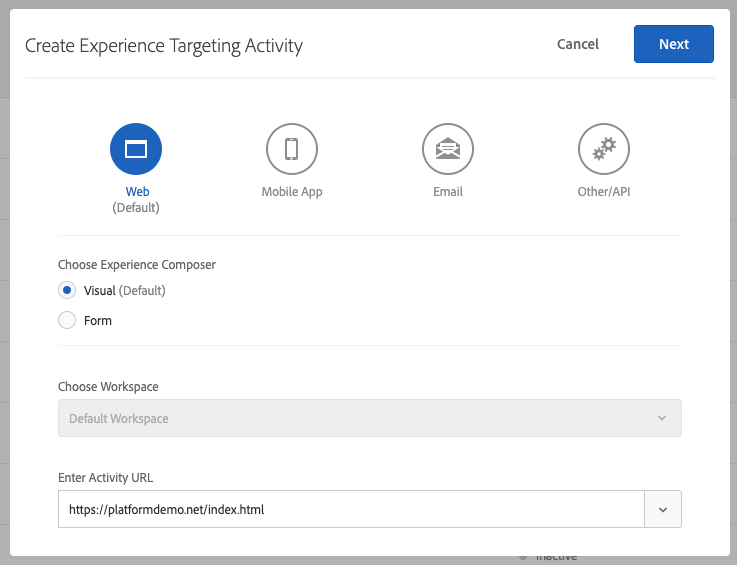
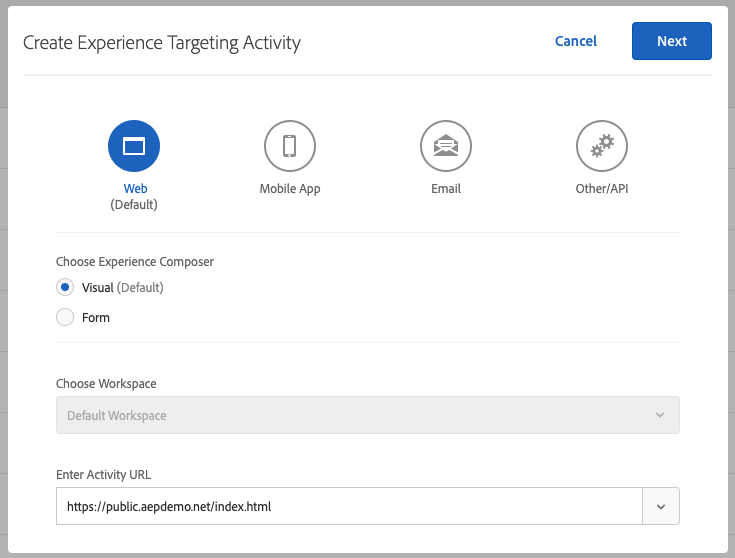
update to module 11

diff --git a/help/tutorial-comprehensive-technical-v21/modules/module11/ex6.md b/help/tutorial-comprehensive-technical-v21/modules/module11/ex6.md
@@ -29,8 +29,7 @@ Now that all Adobe Experience Platform segments are available in the Adobe Exper
 
 >[!IMPORTANT]
 >
->Before you configure your Adobe Target activity, you need to ensure that the Adobe Target library is being loaded on the website. To do that, go to [http://launch.adobe.com/](http://launch.adobe.com/) and make sure the Adobe Target extension is installed in your web property, and make sure that the  
-
+>Before you configure your Adobe Target activity, you need to ensure that the Adobe Target library is being loaded on the website. To do that, go to [http://launch.adobe.com/](http://launch.adobe.com/) and verify that your Edge Configuration is loading Adobe Target.
 
 Let's go back to the Adobe Experience Cloud homepage by going to [http://experiencecloud.adobe.com/](http://experiencecloud.adobe.com/).
 
@@ -60,7 +59,7 @@ Fill out the details, like the **Activity URL**.
 
 >[!TIP]
 >
->Adobe Target doesn't like localhost connections, so for this use-case, please use a publicly available website as Activity URL.
+>Adobe Target doesn't like localhost connections, so for this use-case, please use a publicly available website as Activity URL, like in the case of the demo website environment, [https://public.aepdemo.net/index.html](https://public.aepdemo.net/index.html)
 
 ![RTCDP](./images/exclatcrxtdtl.png)
 
